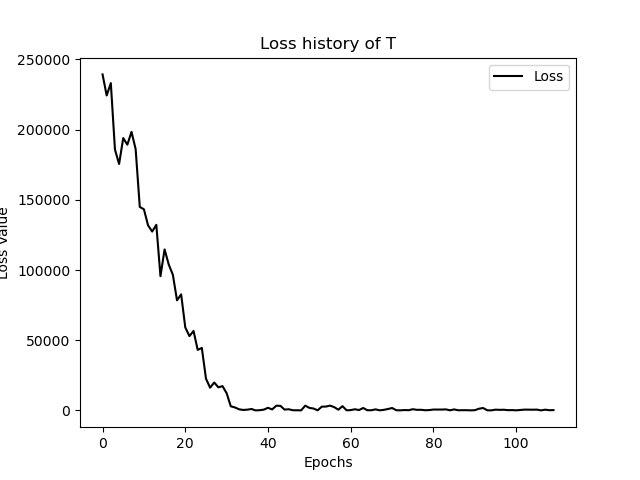
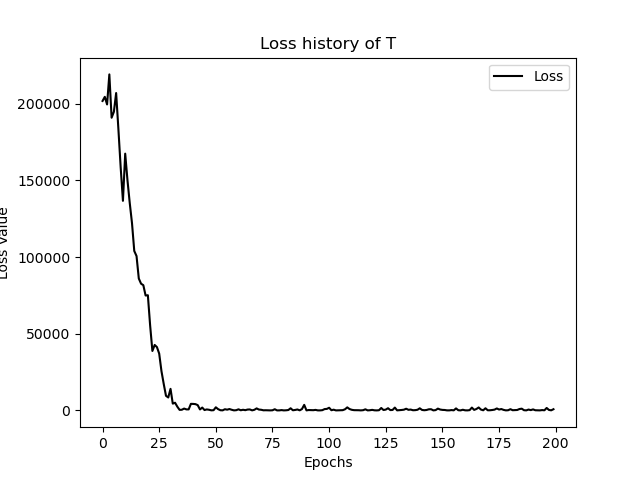
temperature retrained

diff --git a/FNN/FNN_T.py b/FNN/FNN_T.py
@@ -11,6 +11,9 @@ Xia, S      24.12.12    Simpop.cn   v1.0
 import torch
 import torch.nn as nn
 
+from pathlib import Path
+import h5py
+
 import h5py
 import pandas, numpy, random
 import matplotlib.pyplot as plt
@@ -21,6 +24,9 @@ import numpy as np
 
 from pathlib import Path
 from torch.utils.data import Dataset
+
+from idxList import idxList
+from idxList import numOfAllCases
 
 class FSimDataset(Dataset):
   def __init__(self, file:Path, caseList:list):
@@ -92,16 +98,15 @@ class FSimDataset(Dataset):
     print("Todo: .plotVTK(...)")
     pass
 
-# split the data, 27 = 22 + 5
-numOfCases = 27
+# split the data, 49 = 40 + 9
+numOfCases = numOfAllCases
 ratioTest = 0.2
 
 sizeOfTestSet = np.int64(numOfCases * ratioTest)
 
+# other number is also ok
 np.random.seed(42)
 permut = np.random.permutation(numOfCases)
-
-from idxList import idxList
 
 listTestCase = []
 for i in permut[:sizeOfTestSet]:
@@ -112,9 +117,6 @@ listTrainCase = []
 for i in permut[sizeOfTestSet:]:
   theCase = "C" + "%03d"%idxList[i]
   listTrainCase.append(theCase)
-
-from pathlib import Path
-import h5py
 
 filePathH5 = Path("../FSCases/FSHDF/MatrixData.h5")
 
@@ -428,9 +430,9 @@ R.saveLossHistory2PNG()
 fsDataset_test = FSimDataset(filePathH5, listTestCase)
 
 #len_test = fsDataset_test.numCases
-# for C025
+# for C034
 inp, tField, coords = fsDataset_test[0]
-print(type(inp), type(tField))
+#print(type(inp), type(tField))
 
 #outPresTorch = R.forward(inp)
 

diff --git a/FNN/FNN_P.py b/FNN/FNN_P.py
@@ -433,7 +433,7 @@ fsDataset_test = FSimDataset(filePathH5, listTestCase)
 #print(listTestCase)
 
 #len_test = fsDataset_test.numCases
-# for C025
+# for C034
 inp, pField, coords = fsDataset_test[0]
 #print(fsDataset_test.caseList)
 #print(type(inp), type(pField))
